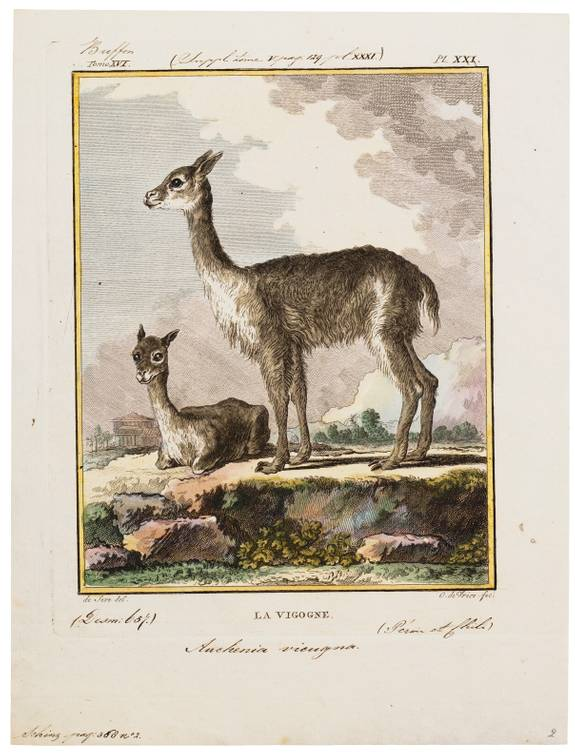
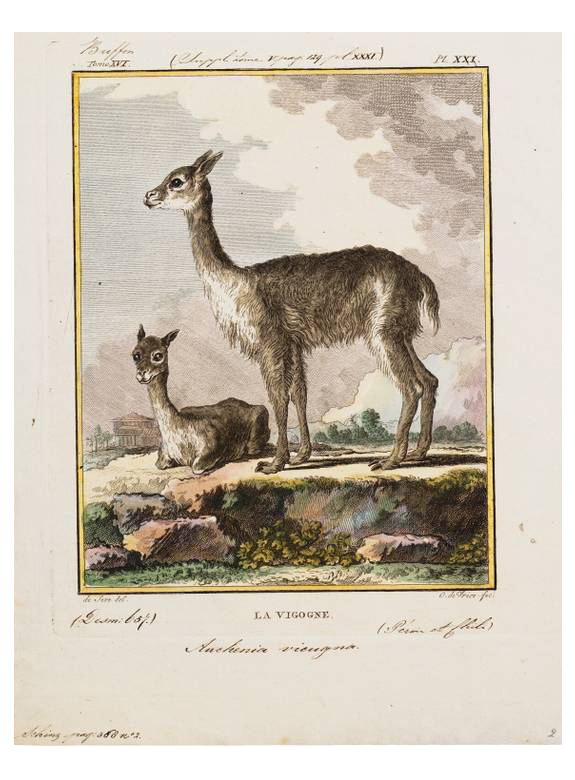
modificaciones flora y fauna grilla e imágenes

diff --git a/_flora_fauna/nandu.md b/_flora_fauna/nandu.md
@@ -3,9 +3,9 @@ nombre: Ñandú
 determinante: El
 fechas: pg_0019
 posicion: 
-img: ../assets/img/nandu-Image-Rhea_Darwinii1.jpg
+img: ../assets/img/nandu-Image-Rhea_Darwinii1_xs.jpg
 lnk: nandu
-fuente: Darwin, C. R. ed. 1841. Birds Part 3 No. 5 of The zoology of the voyage of H.M.S. Beagle. by John Gould.
+fuente: Wikimedia Commons
 fuente_url: https://commons.wikimedia.org/wiki/File:Image-Rhea_Darwinii1.jpg
 detalle: que andan en tropillas como el ganado y aunque su carne es buena, sin embargo nadie la come sino los . Hacen sombrillas con sus plumas, las cuales son muy cómodas para el sol...
 ---

diff --git a/_flora_fauna/llama.md b/_flora_fauna/llama.md
@@ -3,7 +3,7 @@ nombre: Llama
 determinante: La
 fechas: pg_0051
 posicion: 
-img: ../assets/img/llama-Brehm_Life_of_animals_1895.jpg
+img: ../assets/img/llama-Brehm_Life_of_animals_1895_xs.jpg
 lnk: llama
 fuente: Wikimedia Commons
 fuente_url: https://commons.wikimedia.org/wiki/Category:Lama_glama_(illustrations)#/media/File:Brehm's_Life_of_animals_-_a_complete_natural_history_for_popular_home_instruction_and_for_the_use_of_schools_(1895)_(19790575574).jpg

diff --git a/_flora_fauna/vicuna.md b/_flora_fauna/vicuna.md
@@ -3,7 +3,7 @@ nombre: Vicuña
 determinante: La
 fechas: pg_0040
 posicion: 
-img: ../assets/img/vicugna-University_of_Amsterdam.jpg
+img: ../assets/img/vicugna-University_of_Amsterdam_xs.jpg
 lnk: vicuna
 fuente: University of Amsterdam
 fuente_url: https://commons.wikimedia.org/wiki/File:Auchenia_vicugna_-_1700-1880_-_Print_-_Iconographia_Zoologica_-_Special_Collections_University_of_Amsterdam_-_UBA01_IZ21600113.tif

diff --git a/_flora_fauna/maiz.md b/_flora_fauna/maiz.md
@@ -3,7 +3,7 @@ nombre: Maíz
 determinante: El
 fechas: pg_0035
 posicion: 
-img: ../assets/img/maiz-Tres_mazorcas-siglo_XVI_Museo_de_America.jpg
+img: ../assets/img/maiz-Tres_mazorcas-siglo_XVI_Museo_de_America_xs.jpg
 lnk: maíz
 fuente: Wikimedia Commons
 fuente_url: https://upload.wikimedia.org/wikipedia/commons/6/6a/Tres_mazorcas_de_ma%C3%ADz_natural._Anteriores_al_siglo_XVI._Museo_de_Am%C3%A9rica.jpg?uselang=es

diff --git a/_flora_fauna/yerba.md b/_flora_fauna/yerba.md
@@ -3,7 +3,7 @@ nombre: Yerba
 determinante: La
 fechas: pg_0010
 posicion: 
-img: ../assets/img/yerba-American_journal-pharmacy1878.jpg
+img: ../assets/img/yerba-American_journal-pharmacy1878_xs.jpg
 lnk: yerba
 fuente: Wikimedia Commons
 fuente_url: https://commons.wikimedia.org/wiki/Category:Ilex_paraguariensis_-_botanical_illustrations#/media/File:American_journal_of_pharmacy_(1878)_(14770357052).jpg

diff --git a/_flora_fauna/guanaco.md b/_flora_fauna/guanaco.md
@@ -3,7 +3,7 @@ nombre: Guanaco
 determinante: El
 fechas: pg_0033
 posicion: 
-img: ../assets/img/guanaco-The_wild_beasts_of_the_world.jpg
+img: ../assets/img/guanaco-The_wild_beasts_of_the_world_xs.jpg
 lnk: guanaco
 fuente: Wikimedia Commons
 fuente_url: https://upload.wikimedia.org/wikipedia/commons/8/86/The_wild_beasts_of_the_world_%28Plate_28%29_%288116050858%29.jpg?uselang=es

diff --git a/_flora_fauna/ballena.md b/_flora_fauna/ballena.md
@@ -3,7 +3,7 @@ nombre: Ballena
 determinante: La
 fechas: pg_0007
 posicion: 
-img: ../assets/img/ballena-British_mammals.jpg
+img: ../assets/img/ballena-British_mammals_xs.jpg
 lnk: ballena
 fuente: Wikimedia Commons
 fuente_url: https://commons.wikimedia.org/wiki/Category:Balaenoptera_musculus_(illustrations)#/media/File:British_mammals_(Pl._43)_(21269607064).jpg

diff --git a/_flora_fauna/cereza.md b/_flora_fauna/cereza.md
@@ -3,7 +3,7 @@ nombre: Cereza
 determinante: La
 fechas: pg_0033
 posicion: 
-img: ../assets/img/cereza-the-botanical.jpg
+img: ../assets/img/cereza-the-botanical_xs.jpg
 lnk: cereza
 fuente: Wikimedia Commons
 fuente_url: https://commons.wikimedia.org/wiki/Category:Eugenia_uniflora#/media/File:The_Botanical_Magazine,_Plate_473_(Volume_14,_1800).png

diff --git a/_flora_fauna/palmera.md b/_flora_fauna/palmera.md
@@ -3,7 +3,7 @@ nombre: Palmera
 determinante: La
 fechas: pg_0034
 posicion: 
-img: ../assets/img/palmera-Copernicia_australis_1892.jpg
+img: ../assets/img/palmera-Copernicia_australis_1892_xs.jpg
 lnk: palmera
 fuente: Wikimedia Commons
 fuente_url: https://commons.wikimedia.org/wiki/Copernicia_alba#/media/File:Copernicia_australis_1892.jpg

diff --git a/_flora_fauna/nogal.md b/_flora_fauna/nogal.md
@@ -3,7 +3,7 @@ nombre: Nogal
 determinante: El
 fechas: pg_0026
 posicion: 
-img: ../assets/img/nogal-BHL16635436.jpg
+img: ../assets/img/nogal-BHL16635436_xs.jpg
 lnk: noga
 fuente: Wikimedia Commons
 fuente_url: https://upload.wikimedia.org/wikipedia/commons/3/3e/El_Jard%C3%ADn_bot%C3%A1nico_de_Buenos_Aires_%28Page_124%29_BHL16635436.jpg

diff --git a/_flora_fauna/dorado.md b/_flora_fauna/dorado.md
@@ -3,7 +3,7 @@ nombre: Dorado
 determinante: El
 fechas: pg_0029
 posicion: 
-img: ../assets/img/dorado-Salminus_brasiliensis_Castelnau.jpg
+img: ../assets/img/dorado-Salminus_brasiliensis_Castelnau_xs.jpg
 lnk: dorado
 fuente: Wikimedia Commons
 fuente_url: https://commons.wikimedia.org/wiki/File:Salminus_brasiliensis_Castelnau.jpg

diff --git a/_flora_fauna/algarrobo.md b/_flora_fauna/algarrobo.md
@@ -3,7 +3,7 @@ nombre: Algarrobo
 determinante: El
 fechas: pg_0032
 posicion: 
-img: ../assets/img/algarrobo-Prosopis_alba.jpg
+img: ../assets/img/algarrobo-Prosopis_alba_xs.jpg
 lnk: algarrobo
 detalle: cuyo fruto sirve para hacer una bebida que es dulce y picantita, y que sube a la cabeza como el vino
 fuente: Wikimedia Commons
